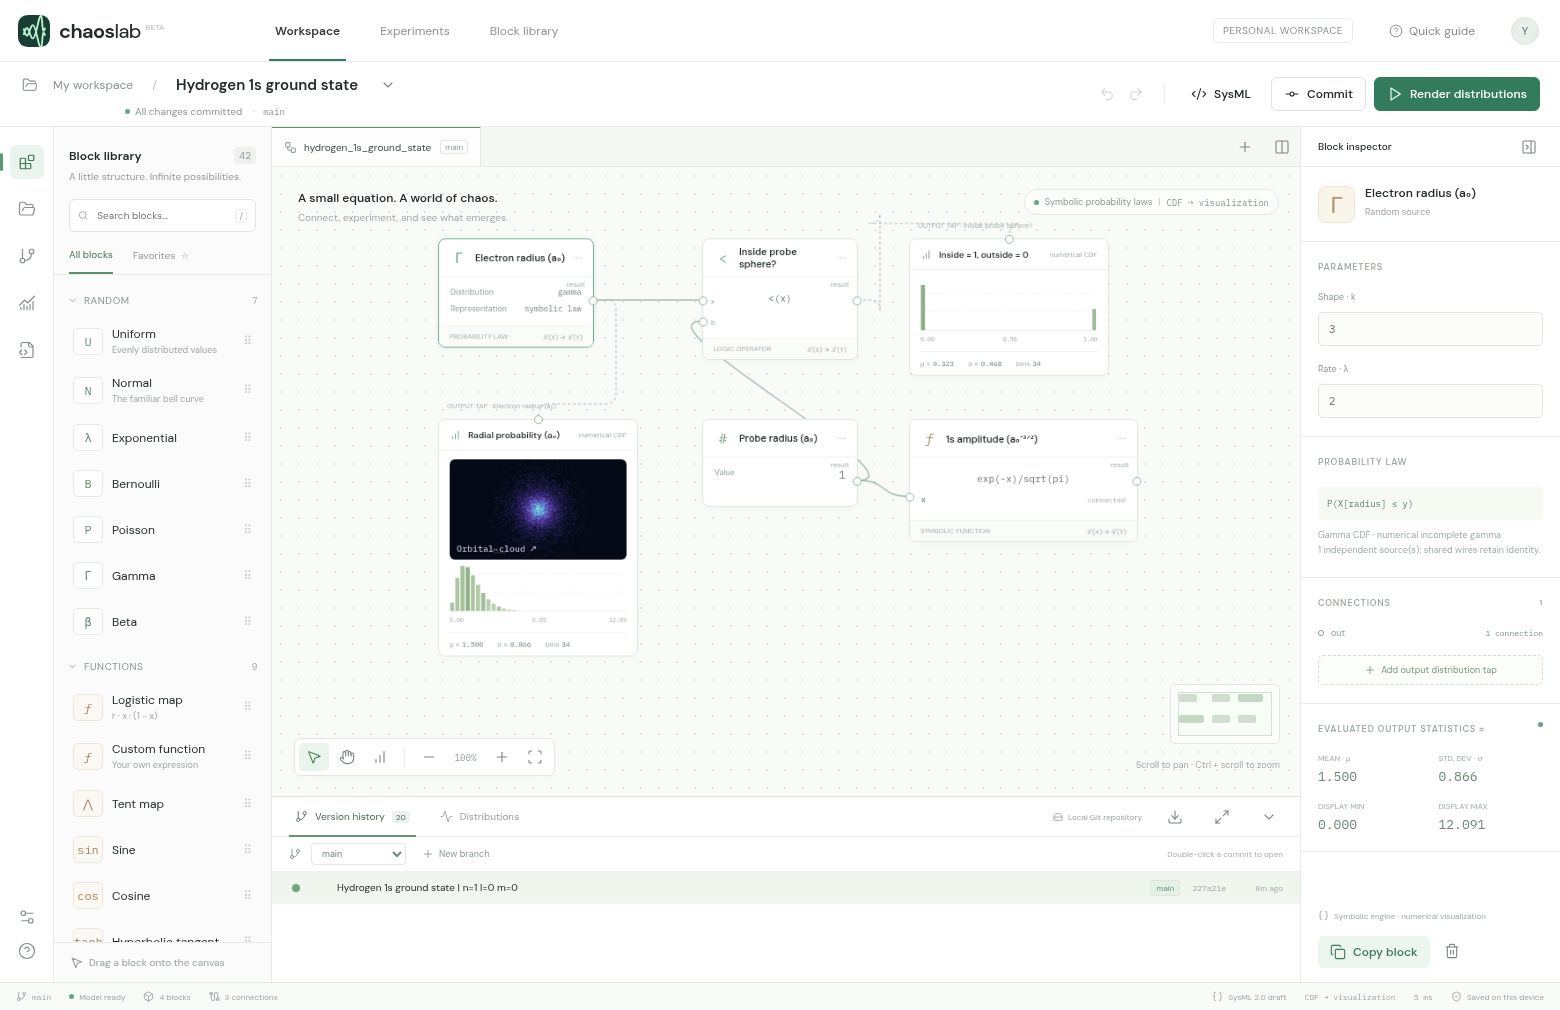
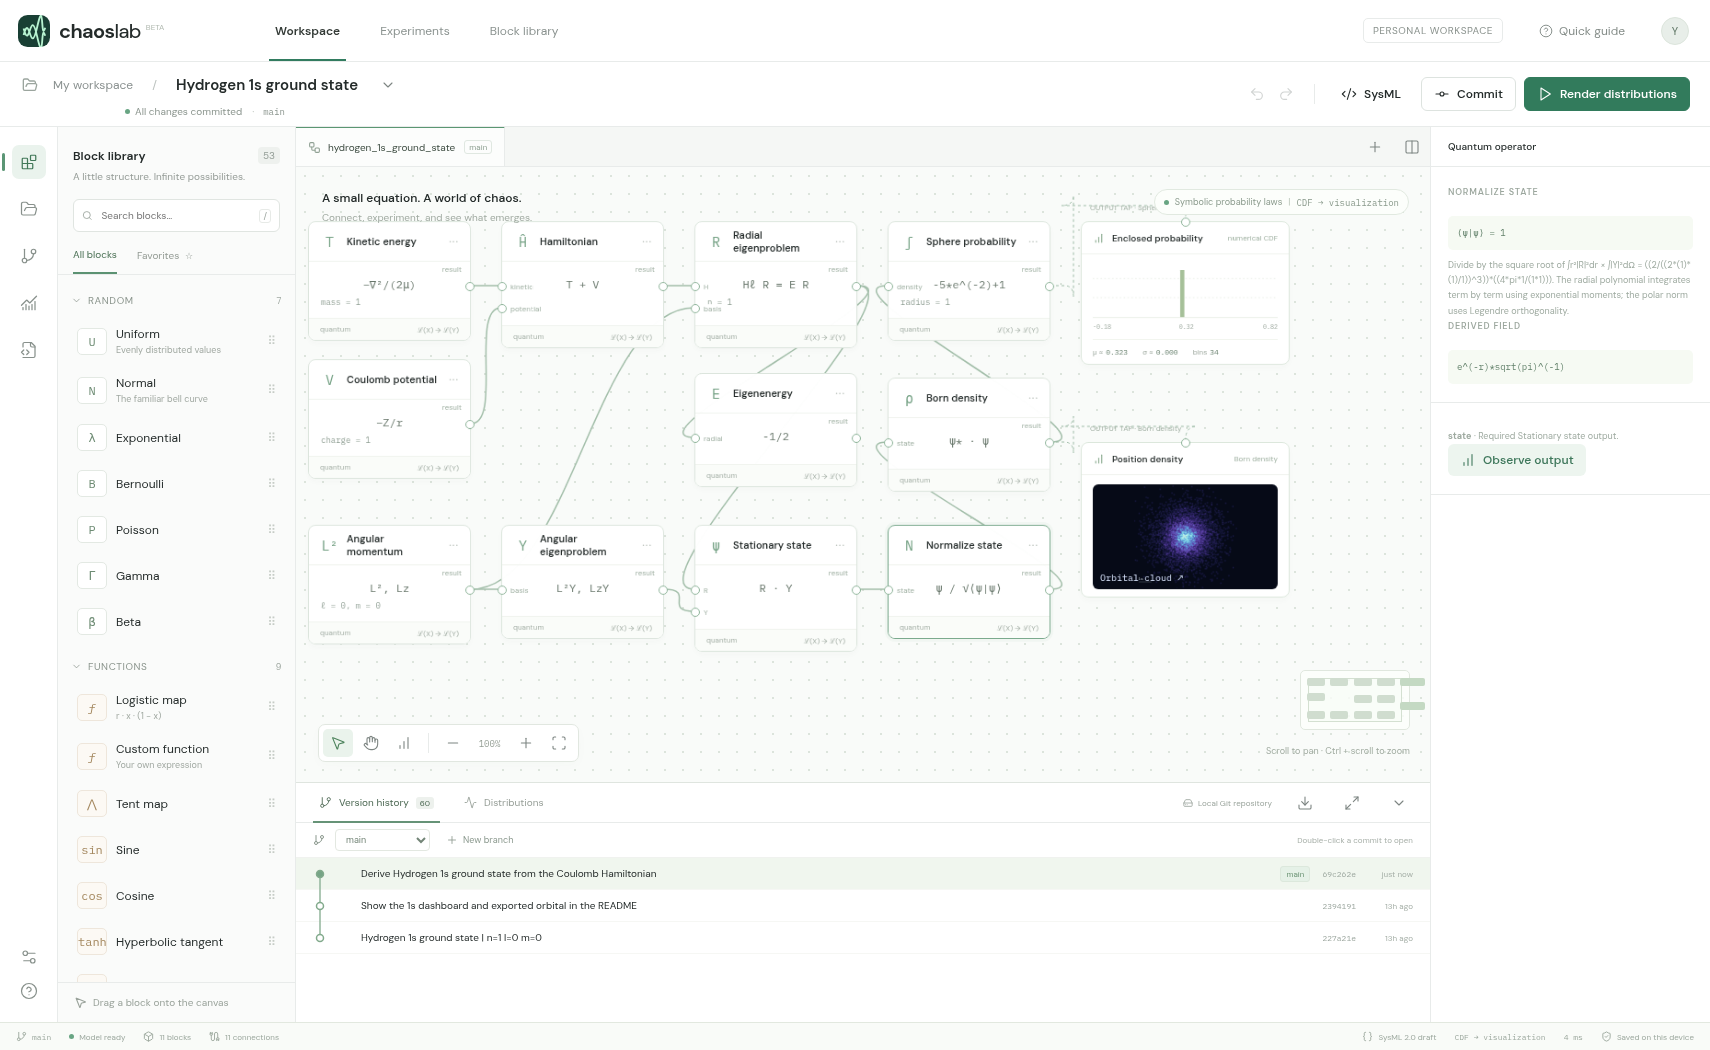
Show the derived state and operator graph for main

diff --git a/README.md b/README.md
@@ -4,6 +4,8 @@ Open **Version history** in Chaos Lab to explore the 20 hydrogen designs in this
 
 ## Hydrogen 1s (n = 1, ℓ = 0, m = 0)
 
+The connected Hamiltonian and eigenstate solvers give $E=-1/2$ Hartree for this state.
+
 ![Chaos Lab dashboard with the 1s model, m = 0, open in version history](dashboard.png)
 
 Each dot is a simulated electron position drawn from the 1s probability law and projected onto the image plane.
@@ -22,7 +24,7 @@ cd hydrogen_wavefunction
 python studio.py
 ```
 
-On Windows you can use `py studio.py`. On Linux you can use `python3 studio.py`. The first launch downloads the pinned Chaos Lab browser build. Double-click a commit to open it in a tab. Open another and use **Split view** to compare them. **Orbital cloud ↗** opens the spatial plots. The launcher reads the Git objects from your clone, including origin branches. Run `git fetch origin` and restart the launcher to load new remote branches.
+On Windows you can use `py studio.py`. On Linux you can use `python3 studio.py`. The first launch downloads the pinned Chaos Lab browser build. Double-click a commit to open it in a tab. Open another and use **Split view** to compare them. **Orbital cloud ↗** opens the spatial plots. The launcher reads the Git objects from your clone, including origin branches. For an existing clone, update the checked-out branch with `git pull --ff-only`, fetch the other branches with `git fetch origin`, and restart the launcher. Double-click the latest commit for the design you want to explore.
 
 To compare states with the same radial law, open `orbital/2p-m0` and `orbital/2p-m1`. At the same radius their enclosed-probability probes agree. The first slice is dark on the equatorial plane, while the second is dark along the polar axis.
 
@@ -32,7 +34,17 @@ To compare states with the same radial law, open `orbital/2p-m0` and `orbital/2p
 
 Branch names encode `(n, ℓ, m)`. For example, `orbital/3d-m1` is `(3,2,1)`. Each snapshot includes the editable graph, its compiled symbolic representation, and its SysML text. Each excited-state branch also contains a reference cross-section.
 
-Coordinates are in Bohr radii. These are normalized fixed-proton, nonrelativistic spatial eigenstates in the complex spherical-harmonic basis. For a fixed m the azimuthal phase is exp(i m φ), so probability density is axially symmetric. The graph evaluates the real meridian amplitude at φ = 0 using radius r and u = cos θ. Its square is probability per unit volume. The sphere probe integrates the radial Born law. The field tap sweeps the same amplitude expression for the x–z slice and its projected detections. Detections are drawn for display from a numerical grid of the final density including the r² volume factor. Brightness and plotting windows are scaled per orbital.
+## How the graph derives this orbital
+
+1. **Kinetic energy** and **Coulomb potential** supply the relative-coordinate operators in atomic units. Their wires feed **Hamiltonian**, which constructs $H=-\nabla^2/(2\mu)-Z/r$. The default is a fixed proton, $Z=\mu=1$.
+2. **Angular momentum** selects the joint eigenvalues of $L^2$ and $L_z$. **Radial eigenproblem** uses that angular eigenvalue in the centrifugal term. Regularity at the origin, decay at infinity, and radial-series termination give the polynomial and energy. **Angular eigenproblem** constructs the polar polynomial by Rodrigues differentiation and includes the phase $e^{im\phi}$.
+3. **Stationary state** multiplies the separated basis functions. **Normalize state** computes their norm with the spherical volume measure. **Born density** takes the squared modulus of the normalized state. **Sphere probability** integrates that density to the probe radius.
+4. Select a block to inspect its equation and derivation. Change **Nuclear charge** from 1 to 2. The energy becomes four times more negative and the orbital contracts by a factor of two. The plot rescales with the orbital, so use its Bohr-radius scale bar to see the change.
+
+The central slice evaluates the final density in the x–z plane. Projected detections sample the final density on a finite radial and angular grid with the spherical volume factor. Coordinates use Bohr radii and energy uses Hartree.
+
+The branch stores the operator graph in `model.json`, its derived fields and scalar laws in `model.symbolic.json`, and the block connections in `model.sysml`. With SymPy installed, run `python tools/verify_state.py` in a checkout of this branch to check the eigenvalue equations, normalization, radial reference solution and sphere integral.
+
 
 | n | ℓ | m | Design branch |
 |---|---|---|---|
